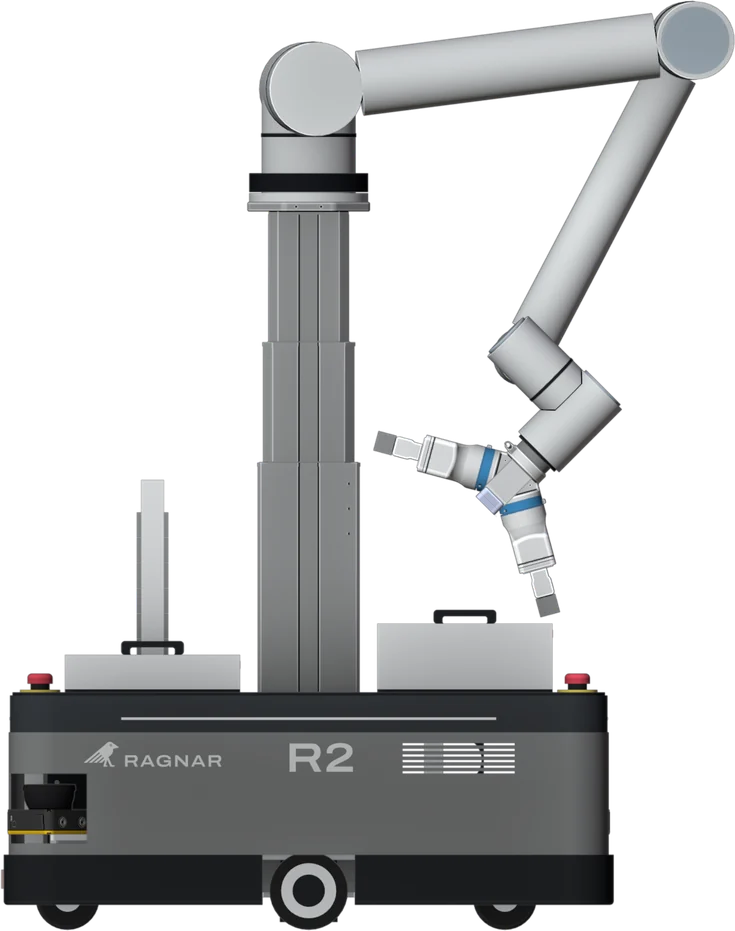
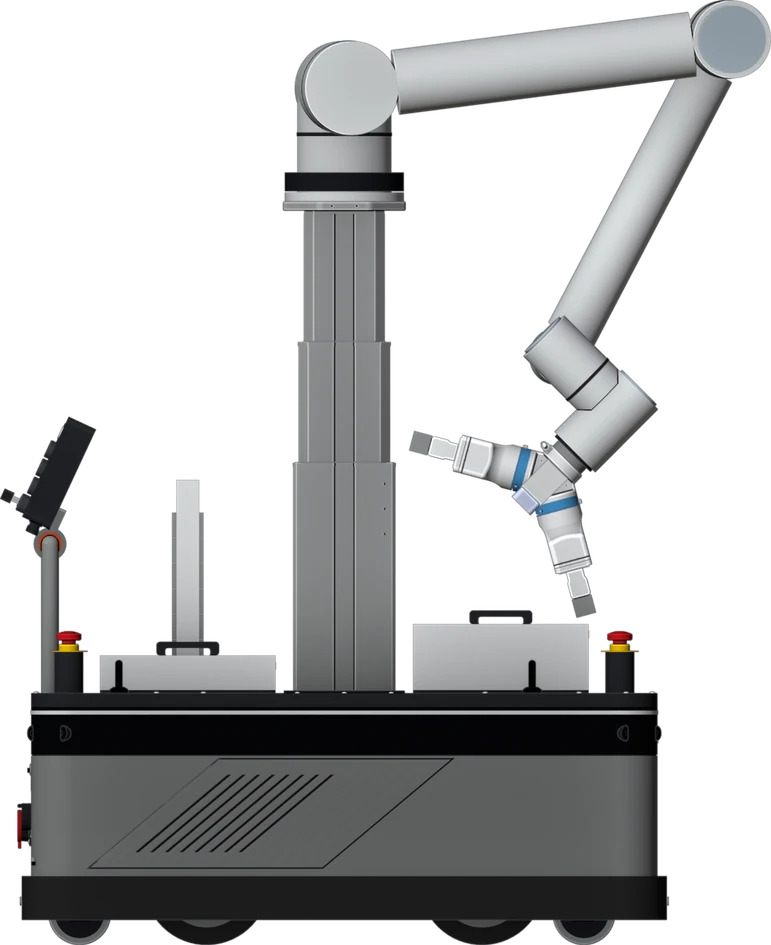
R2 now stands on R1's chassis: one base with swappable tops. New R2 lineup image at 59.5 in tall and 41 in long, its light moved with it, preview image and build log updated

diff --git a/index.html b/index.html
@@ -28,7 +28,7 @@
 <link rel="preload" href="assets/fonts/archivo_wide.woff2" as="font" type="font/woff2" crossorigin>
 <link rel="preload" href="assets/fonts/geist.woff2" as="font" type="font/woff2" crossorigin>
 <link rel="preload" href="assets/img/r1_loop_poster.webp" as="image" type="image/webp" fetchpriority="high">
-<link rel="stylesheet" href="assets/styles.css?v=r11">
+<link rel="stylesheet" href="assets/styles.css?v=r12">
 <script src="assets/site.js?v=r7" defer></script>
 </head>
 <body>
@@ -137,21 +137,21 @@
         <h2 id="fam-h">One family, three jobs</h2>
       </div>
       <div class="c34 vlx sh fam-intro">
-        <p class="lead">R1 finishes walls in buildings. R2 tends machines in shops and print farms. Mini works the racks in data centers.</p>
+        <p class="lead">R1 finishes walls in buildings. R2 tends machines in shops and print farms. Mini works the racks in data centers. R1 and R2 share one chassis with swappable tops. Mini is the compact one for tight aisles.</p>
         <p class="note">Drawn to scale next to a 5&nbsp;ft&nbsp;9&nbsp;in person. The images are CAD renderings.</p>
       </div>
       <div class="c14 fam">
 <div class="fam-fig">
 <svg class="dwg fam-back" viewBox="0 -2250 5692 2330" aria-hidden="true"><path d="M0 0H5692"/><path d="M400 0V-2133.6"/><path d="M348 0H400"/><path d="M374 -152.4H400"/><path d="M348 -304.8H400"/><text class="rl" x="330" y="-304.8">1</text><path d="M374 -457.2H400"/><path d="M348 -609.6H400"/><text class="rl" x="330" y="-609.6">2</text><path d="M374 -762H400"/><path d="M348 -914.4H400"/><text class="rl" x="330" y="-914.4">3</text><path d="M374 -1066.8H400"/><path d="M348 -1219.2H400"/><text class="rl" x="330" y="-1219.2">4</text><path d="M374 -1371.6H400"/><path d="M348 -1524H400"/><text class="rl" x="330" y="-1524">5</text><path d="M374 -1676.4H400"/><path d="M348 -1828.8H400"/><text class="rl" x="330" y="-1828.8">6</text><path d="M374 -1981.2H400"/><path d="M348 -2133.6H400"/><text class="rl" x="330" y="-2133.6">7 ft</text><path class="person" d="M782.0 -1753.0C799.3 -1753.0 821.0 -1755.2 834.0 -1738.0C847.0 -1720.8 857.0 -1676.3 860.0 -1650.0C863.0 -1623.7 856.7 -1600.8 852.0 -1580.0C847.3 -1559.2 835.0 -1542.0 832.0 -1525.0C829.0 -1508.0 822.3 -1489.2 834.0 -1478.0C845.7 -1466.8 876.5 -1464.3 902.0 -1458.0C927.5 -1451.7 967.7 -1450.5 987.0 -1440.0C1006.3 -1429.5 1010.8 -1426.7 1018.0 -1395.0C1025.2 -1363.3 1027.3 -1300.8 1030.0 -1250.0C1032.7 -1199.2 1034.2 -1148.3 1034.0 -1090.0C1033.8 -1031.7 1029.3 -950.0 1029.0 -900.0C1028.7 -850.0 1033.8 -821.3 1032.0 -790.0C1030.2 -758.7 1025.7 -726.3 1018.0 -712.0C1010.3 -697.7 993.7 -696.0 986.0 -704.0C978.3 -712.0 975.3 -727.3 972.0 -760.0C968.7 -792.7 968.3 -845.0 966.0 -900.0C963.7 -955.0 960.7 -1031.7 958.0 -1090.0C955.3 -1148.3 952.0 -1213.0 950.0 -1250.0C948.0 -1287.0 947.3 -1315.3 946.0 -1312.0C944.7 -1308.7 945.0 -1267.8 942.0 -1230.0C939.0 -1192.2 927.0 -1130.0 928.0 -1085.0C929.0 -1040.0 942.7 -990.8 948.0 -960.0C953.3 -929.2 959.7 -943.3 960.0 -900.0C960.3 -856.7 957.3 -766.7 950.0 -700.0C942.7 -633.3 922.0 -561.7 916.0 -500.0C910.0 -438.3 920.3 -396.7 914.0 -330.0C907.7 -263.3 881.0 -150.0 878.0 -100.0C875.0 -50.0 893.3 -46.7 896.0 -30.0C898.7 -13.3 908.0 -5.0 894.0 0.0C880.0 5.0 825.3 15.0 812.0 0.0C798.7 -15.0 815.0 -35.0 814.0 -90.0C813.0 -145.0 807.7 -261.7 806.0 -330.0C804.3 -398.3 805.7 -428.3 804.0 -500.0C802.3 -571.7 799.7 -702.5 796.0 -760.0C792.3 -817.5 786.7 -845.0 782.0 -845.0C777.3 -845.0 771.7 -817.5 768.0 -760.0C764.3 -702.5 761.7 -571.7 760.0 -500.0C758.3 -428.3 759.7 -398.3 758.0 -330.0C756.3 -261.7 751.0 -145.0 750.0 -90.0C749.0 -35.0 765.3 -15.0 752.0 0.0C738.7 15.0 684.0 5.0 670.0 0.0C656.0 -5.0 665.3 -13.3 668.0 -30.0C670.7 -46.7 689.0 -50.0 686.0 -100.0C683.0 -150.0 656.3 -263.3 650.0 -330.0C643.7 -396.7 654.0 -438.3 648.0 -500.0C642.0 -561.7 621.3 -633.3 614.0 -700.0C606.7 -766.7 603.7 -856.7 604.0 -900.0C604.3 -943.3 610.7 -929.2 616.0 -960.0C621.3 -990.8 635.0 -1040.0 636.0 -1085.0C637.0 -1130.0 625.0 -1192.2 622.0 -1230.0C619.0 -1267.8 619.3 -1308.7 618.0 -1312.0C616.7 -1315.3 616.0 -1287.0 614.0 -1250.0C612.0 -1213.0 608.7 -1148.3 606.0 -1090.0C603.3 -1031.7 600.3 -955.0 598.0 -900.0C595.7 -845.0 595.3 -792.7 592.0 -760.0C588.7 -727.3 585.7 -712.0 578.0 -704.0C570.3 -696.0 553.7 -697.7 546.0 -712.0C538.3 -726.3 533.8 -758.7 532.0 -790.0C530.2 -821.3 535.3 -850.0 535.0 -900.0C534.7 -950.0 530.2 -1031.7 530.0 -1090.0C529.8 -1148.3 531.3 -1199.2 534.0 -1250.0C536.7 -1300.8 538.8 -1363.3 546.0 -1395.0C553.2 -1426.7 557.7 -1429.5 577.0 -1440.0C596.3 -1450.5 636.5 -1451.7 662.0 -1458.0C687.5 -1464.3 718.3 -1466.8 730.0 -1478.0C741.7 -1489.2 735.0 -1508.0 732.0 -1525.0C729.0 -1542.0 716.7 -1559.2 712.0 -1580.0C707.3 -1600.8 701.0 -1623.7 704.0 -1650.0C707.0 -1676.3 717.0 -1720.8 730.0 -1738.0C743.0 -1755.2 764.7 -1753.0 782.0 -1753.0Z"/><text class="nm" x="1944" y="40">R1</text><text class="nm" x="3882" y="40">R2</text><text class="nm" x="5210" y="40">Mini</text></svg>
 <img class="fam-bot fam-r1" src="assets/img/r1_side_1x.webp?v=2190c6ec" srcset="assets/img/r1_side_1x.webp?v=2190c6ec 493w, assets/img/r1_side_2x.webp?v=883711af 986w" sizes="(min-width: 900px) calc(min(1440px, 100vw - 48px) * 0.3), calc((100vw - 40px) * 0.3)" width="986" height="1249" alt="R1, the interior finishing robot, holding its paint roller beside its mast" loading="lazy" decoding="async">
-<img class="fam-bot fam-r2" src="assets/img/r2_side_1x.webp?v=6983cf9c" srcset="assets/img/r2_side_1x.webp?v=6983cf9c 368w, assets/img/r2_side_2x.webp?v=9181d67f 735w" sizes="(min-width: 900px) calc(min(1440px, 100vw - 48px) * 0.2), calc((100vw - 40px) * 0.2)" width="735" height="931" alt="R2, the machine tending robot, with its arm on a lift column and part cassettes on its deck" loading="lazy" decoding="async">
+<img class="fam-bot fam-r2" src="assets/img/r2_side_1x.webp?v=aaeea92f" srcset="assets/img/r2_side_1x.webp?v=aaeea92f 386w, assets/img/r2_side_2x.webp?v=7ad203e0 771w" sizes="(min-width: 900px) calc(min(1440px, 100vw - 48px) * 0.22), calc((100vw - 40px) * 0.22)" width="771" height="945" alt="R2, the machine tending robot, on the same chassis as R1, with its arm on a lift column and part cassettes on its deck" loading="lazy" decoding="async">
 <img class="fam-bot fam-mini" src="assets/img/mini_side_1x.webp?v=89a53247" srcset="assets/img/mini_side_1x.webp?v=89a53247 214w, assets/img/mini_side_2x.webp?v=b497e205 428w" sizes="(min-width: 900px) calc(min(1440px, 100vw - 48px) * 0.1), calc((100vw - 40px) * 0.1)" width="428" height="722" alt="Mini, the round data center robot, reaching into the drive tray on its deck" loading="lazy" decoding="async">
-<svg class="dwg fam-front" viewBox="0 -2250 5692 2330" aria-hidden="true"><rect class="eye" x="2360.7" y="-1961.5" width="37.5" height="23" data-cx="2379.4" data-cy="-1950" data-hx="2330.4" data-range="98"/><rect class="eye" x="3863.1" y="-1207.5" width="37.5" height="23" data-cx="3881.8" data-cy="-1196" data-hx="3826" data-range="111.7"/><rect class="eye" x="5212.6" y="-743.5" width="37.5" height="23" data-cx="5231.3" data-cy="-732" data-hx="5195.4" data-range="71.8"/></svg>
+<svg class="dwg fam-front" viewBox="0 -2250 5692 2330" aria-hidden="true"><rect class="eye" x="2360.7" y="-1961.5" width="37.5" height="23" data-cx="2379.4" data-cy="-1950" data-hx="2330.4" data-range="98"/><rect class="eye" x="3920.8" y="-1229.5" width="37.5" height="23" data-cx="3939.5" data-cy="-1218" data-hx="3883.7" data-range="111.7"/><rect class="eye" x="5212.6" y="-743.5" width="37.5" height="23" data-cx="5231.3" data-cy="-732" data-hx="5195.4" data-range="71.8"/></svg>
 </div>
 <div class="fam-labels">
 <div class="fam-0" aria-hidden="true"></div>
 <div class="fam-l"><h3>R1</h3><p>Paints, sands, drills and tapes walls and ceilings.</p><p class="fam-k">78.5 in tall, 41 in long</p><p class="fam-s">In development</p></div>
-<div class="fam-l"><h3>R2</h3><p>Loads CNC machines, swaps print plates and moves parts between stations.</p><p class="fam-k">58.5 in tall, 38 in long</p><p class="fam-s">In design</p></div>
+<div class="fam-l"><h3>R2</h3><p>Loads CNC machines, swaps print plates and moves parts between stations.</p><p class="fam-k">59.5 in tall, 41 in long</p><p class="fam-s">In design</p></div>
 <div class="fam-l"><h3>Mini</h3><p>Swaps drives and checks racks, and is small enough for tight aisles.</p><p class="fam-k">45 in tall, 26 in round</p><p class="fam-s">In design</p></div>
 </div>
       </div>

diff --git a/company.html b/company.html
@@ -27,7 +27,7 @@
 <meta http-equiv="Content-Security-Policy" content="default-src 'self'; img-src 'self'; style-src 'self'; font-src 'self'; script-src 'self'; object-src 'none'; base-uri 'self'; form-action 'none'">
 <link rel="preload" href="assets/fonts/archivo_wide.woff2" as="font" type="font/woff2" crossorigin>
 <link rel="preload" href="assets/fonts/geist.woff2" as="font" type="font/woff2" crossorigin>
-<link rel="stylesheet" href="assets/styles.css?v=r11">
+<link rel="stylesheet" href="assets/styles.css?v=r12">
 <script src="assets/site.js?v=r7" defer></script>
 </head>
 <body>
@@ -92,6 +92,7 @@
       <div class="c1 sh"><h2 id="stage-h">Build log</h2></div>
       <div class="c24 vlx flush tbl">
         <ol class="rows">
+          <li><p class="when"><time datetime="2026-11-12">Nov 12, 2026</time></p><p>Put R2 on the same chassis as R1, so both share one base with swappable tops.</p></li>
           <li><p class="when"><time datetime="2026-11-12">Nov 12, 2026</time></p><p>Started Mini, a small round robot for data centers.</p></li>
           <li><p class="when"><time datetime="2026-11-12">Nov 12, 2026</time></p><p>Started R2, a technician for machine shops, print farms and data centers.</p></li>
           <li><p class="when"><time datetime="2026-11">Nov 2026</time></p><p>Finished the CAD design of R1: base, three stage mast, arm and six tools, with weight, tipping and reach checks.</p></li>

diff --git a/404.html b/404.html
@@ -25,7 +25,7 @@
 <meta http-equiv="Content-Security-Policy" content="default-src 'self'; img-src 'self'; style-src 'self'; font-src 'self'; script-src 'self'; object-src 'none'; base-uri 'self'; form-action 'none'">
 <link rel="preload" href="/assets/fonts/archivo_wide.woff2" as="font" type="font/woff2" crossorigin>
 <link rel="preload" href="/assets/fonts/geist.woff2" as="font" type="font/woff2" crossorigin>
-<link rel="stylesheet" href="/assets/styles.css?v=r11">
+<link rel="stylesheet" href="/assets/styles.css?v=r12">
 <script src="/assets/site.js?v=r7" defer></script>
 </head>
 <body>

diff --git a/thanks.html b/thanks.html
@@ -25,7 +25,7 @@
 <meta http-equiv="Content-Security-Policy" content="default-src 'self'; img-src 'self'; style-src 'self'; font-src 'self'; script-src 'self'; object-src 'none'; base-uri 'self'; form-action 'none'">
 <link rel="preload" href="/assets/fonts/archivo_wide.woff2" as="font" type="font/woff2" crossorigin>
 <link rel="preload" href="/assets/fonts/geist.woff2" as="font" type="font/woff2" crossorigin>
-<link rel="stylesheet" href="/assets/styles.css?v=r11">
+<link rel="stylesheet" href="/assets/styles.css?v=r12">
 <script src="/assets/site.js?v=r7" defer></script>
 </head>
 <body>

diff --git a/privacy.html b/privacy.html
@@ -26,7 +26,7 @@
 <meta http-equiv="Content-Security-Policy" content="default-src 'self'; img-src 'self'; style-src 'self'; font-src 'self'; script-src 'self'; object-src 'none'; base-uri 'self'; form-action 'none'">
 <link rel="preload" href="assets/fonts/archivo_wide.woff2" as="font" type="font/woff2" crossorigin>
 <link rel="preload" href="assets/fonts/geist.woff2" as="font" type="font/woff2" crossorigin>
-<link rel="stylesheet" href="assets/styles.css?v=r11">
+<link rel="stylesheet" href="assets/styles.css?v=r12">
 <script src="assets/site.js?v=r7" defer></script>
 </head>
 <body>

diff --git a/r1.html b/r1.html
@@ -26,7 +26,7 @@
 <meta http-equiv="Content-Security-Policy" content="default-src 'self'; img-src 'self'; style-src 'self'; font-src 'self'; script-src 'self'; object-src 'none'; base-uri 'self'; form-action 'none'">
 <link rel="preload" href="assets/fonts/archivo_wide.woff2" as="font" type="font/woff2" crossorigin>
 <link rel="preload" href="assets/fonts/geist.woff2" as="font" type="font/woff2" crossorigin>
-<link rel="stylesheet" href="assets/styles.css?v=r11">
+<link rel="stylesheet" href="assets/styles.css?v=r12">
 <script src="assets/site.js?v=r7" defer></script>
 </head>
 <body>

diff --git a/terms.html b/terms.html
@@ -26,7 +26,7 @@
 <meta http-equiv="Content-Security-Policy" content="default-src 'self'; img-src 'self'; style-src 'self'; font-src 'self'; script-src 'self'; object-src 'none'; base-uri 'self'; form-action 'none'">
 <link rel="preload" href="assets/fonts/archivo_wide.woff2" as="font" type="font/woff2" crossorigin>
 <link rel="preload" href="assets/fonts/geist.woff2" as="font" type="font/woff2" crossorigin>
-<link rel="stylesheet" href="assets/styles.css?v=r11">
+<link rel="stylesheet" href="assets/styles.css?v=r12">
 <script src="assets/site.js?v=r7" defer></script>
 </head>
 <body>

diff --git a/assets/styles.css b/assets/styles.css
@@ -313,7 +313,7 @@ section{border-bottom:1px solid var(--rule)}
 .fam-fig.in .eye{animation:power .8s linear 1.6s both}
 @keyframes power{0%{opacity:0}18%{opacity:0}20%{opacity:1}34%{opacity:1}36%{opacity:.2}50%{opacity:.2}52%{opacity:1}100%{opacity:1}}
 .fam-r1{left:24.5%;top:10.9%;width:27.7%}
-.fam-r2{left:58.5%;top:32.7%;width:20.7%}
+.fam-r2{left:58.5%;top:31.83%;width:21.63%}
 .fam-mini{left:85.5%;top:47.1%;width:12%}
 .fam-fig{aspect-ratio:5692 / 2330}
 @media (min-width:700px){.fam-labels{grid-template-columns:1394fr 1938fr 1536fr 824fr}}
